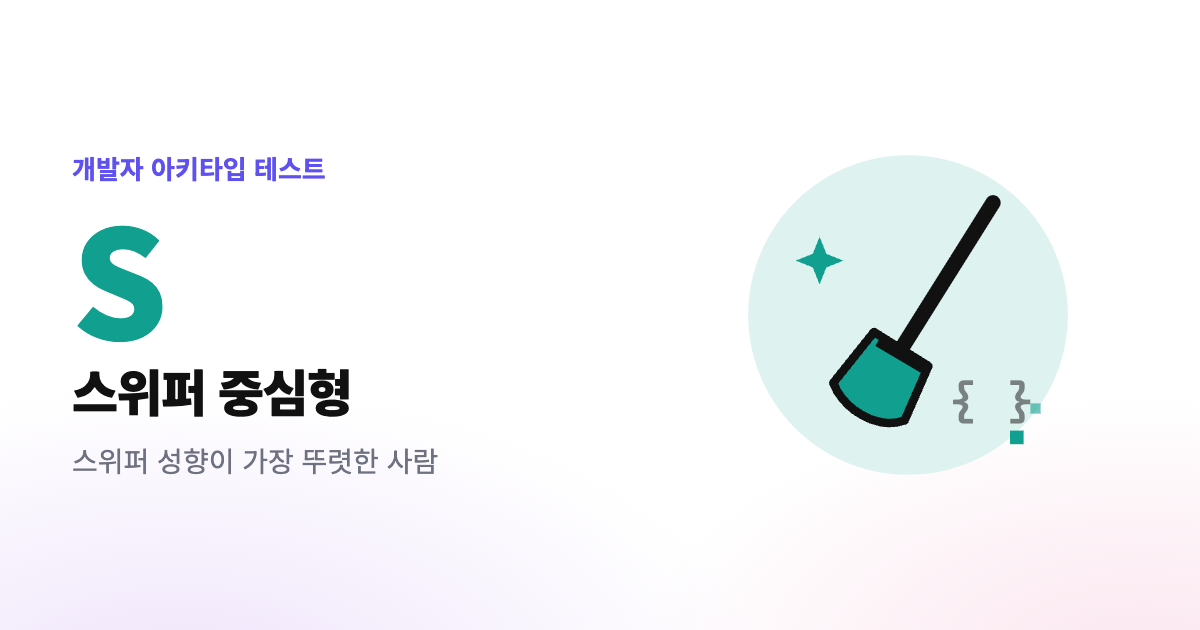
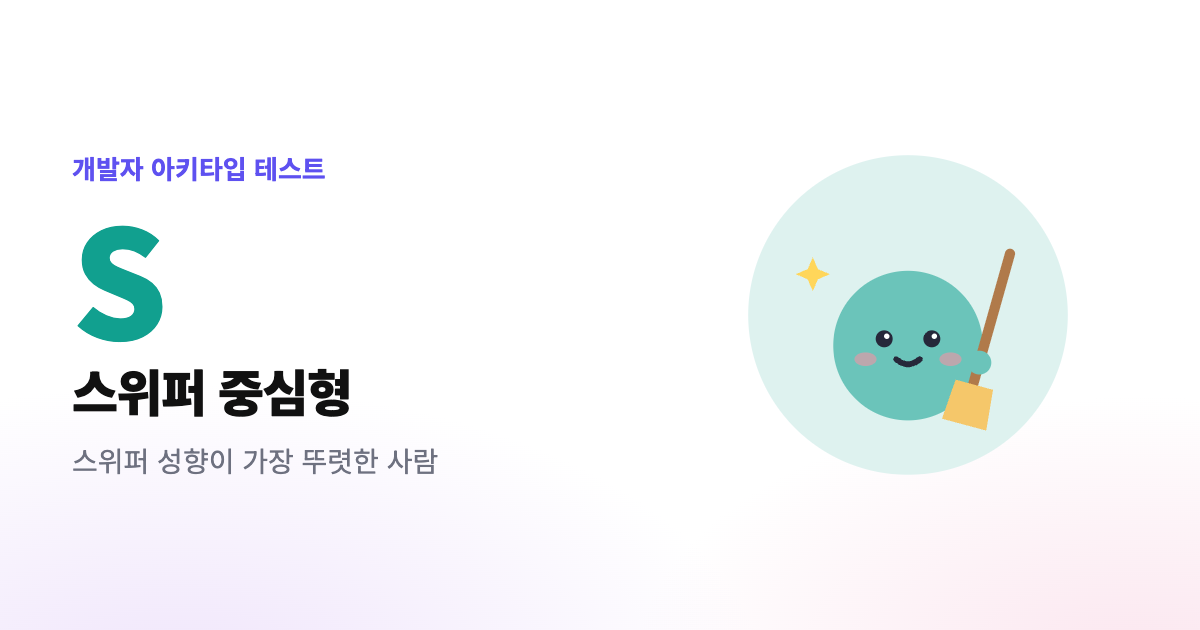
일러스트를 동그란 캐릭터로 교체

Changed region(s): [[0.6475, 0.3016, 0.8633, 0.7238]]

diff --git a/index.html b/index.html
@@ -491,40 +491,36 @@ const COMBOS = {
     '성장 기회를 놓치지 않으면서도 그 성장이 시스템을 무너뜨리지 않게 지킵니다. 사용자가 빠르게 늘어나는 자리 잡은 제품에서 꼭 필요한 조합입니다.']
 };
 
-// 역할별 일러스트입니다. --c 는 역할 색입니다
+// 역할별 일러스트입니다. 동그란 캐릭터 하나에 소품 하나를 얹습니다
+// --c 는 역할 색입니다. 몸은 흰색을 섞어 파스텔로 만듭니다
+const FACE = `<circle cx="100" cy="118" r="44" fill="color-mix(in srgb, var(--c) 62%, #fff)"/>
+    <circle cx="86" cy="114" r="5" fill="#26283a"/><circle cx="114" cy="114" r="5" fill="#26283a"/>
+    <circle cx="87.5" cy="112.5" r="1.6" fill="#fff"/><circle cx="115.5" cy="112.5" r="1.6" fill="#fff"/>
+    <path d="M93 126q7 6 14 0" fill="none" stroke="#26283a" stroke-width="3.5" stroke-linecap="round"/>
+    <ellipse cx="75" cy="126" rx="6.5" ry="4" fill="#ff8fa3" opacity=".55"/>
+    <ellipse cx="125" cy="126" rx="6.5" ry="4" fill="#ff8fa3" opacity=".55"/>`;
 const ART = {
-  P: `<path d="M100 26v14M48 46l10 10M152 46l-10 10M30 94h14M156 94h14" stroke="var(--ink)" stroke-width="5" stroke-linecap="round"/>
-    <rect x="138" y="120" width="28" height="28" rx="4" fill="var(--c)" opacity=".45" transform="rotate(12 152 134)"/>
-    <rect x="30" y="124" width="24" height="24" rx="4" fill="var(--c)" opacity=".3" transform="rotate(-10 42 136)"/>
-    <path d="M100 52a40 40 0 0 0-24 72c6 5 8 10 8 16h32c0-6 2-11 8-16a40 40 0 0 0-24-72z" fill="var(--c)" stroke="var(--ink)" stroke-width="5" stroke-linejoin="round"/>
-    <path d="M92 122v-16a8 8 0 0 1 16 0v16" fill="none" stroke="var(--surface)" stroke-width="5" stroke-linecap="round" stroke-linejoin="round"/>
-    <rect x="82" y="146" width="36" height="10" rx="4" fill="var(--ink)"/><rect x="88" y="160" width="24" height="9" rx="4" fill="var(--ink)"/>`,
-  B: `<path d="M38 172h36M126 172h36" stroke="var(--ink)" stroke-width="5" stroke-linecap="round" opacity=".3"/>
-    <path d="M88 136q12 46 24 0z" fill="var(--c)" opacity=".5"/>
-    <path d="M100 28c24 18 32 52 26 96H74c-6-44 2-78 26-96z" fill="var(--surface)" stroke="var(--ink)" stroke-width="5" stroke-linejoin="round"/>
-    <path d="M100 28c10 7 17 17 21 28H79c4-11 11-21 21-28z" fill="var(--c)" stroke="var(--ink)" stroke-width="5" stroke-linejoin="round"/>
-    <circle cx="100" cy="82" r="12" fill="var(--c)" stroke="var(--ink)" stroke-width="5"/>
-    <path d="M75 100l-20 30h22zM125 100l20 30h-22z" fill="var(--c)" stroke="var(--ink)" stroke-width="5" stroke-linejoin="round"/>
-    <rect x="85" y="124" width="30" height="11" rx="2" fill="var(--ink)"/>`,
-  S: `<path d="M48 54l4 10 10 4-10 4-4 10-4-10-10-4 10-4z" fill="var(--c)"/>
-    <path d="M150 34L96 120" stroke="var(--ink)" stroke-width="9" stroke-linecap="round"/>
-    <path d="M80 110l32 20-14 32c-15 6-36-6-42-22z" fill="var(--c)" stroke="var(--ink)" stroke-width="5" stroke-linejoin="round"/>
-    <path d="M82 116l27 16" stroke="var(--ink)" stroke-width="5"/>
-    <text x="124" y="160" font-family="IBM Plex Mono, ui-monospace, monospace" font-size="28" font-weight="600" fill="var(--ink)" opacity=".5">{ }</text>
-    <rect x="160" y="168" width="8" height="8" fill="var(--c)"/><rect x="172" y="152" width="6" height="6" fill="var(--c)" opacity=".6"/>`,
-  G: `<path d="M28 168h144" stroke="var(--ink)" stroke-width="5" stroke-linecap="round" opacity=".3"/>
-    <rect x="40" y="128" width="20" height="40" rx="3" fill="var(--c)" opacity=".3"/>
-    <rect x="66" y="106" width="20" height="62" rx="3" fill="var(--c)" opacity=".5"/>
-    <path d="M34 82l22-18 16 10 24-24" fill="none" stroke="var(--ink)" stroke-width="5" stroke-linecap="round" stroke-linejoin="round"/>
-    <path d="M84 50h12v12" fill="none" stroke="var(--ink)" stroke-width="5" stroke-linecap="round" stroke-linejoin="round"/>
-    <path d="M130 134V72" stroke="var(--ink)" stroke-width="5" stroke-linecap="round"/>
-    <path d="M130 104c-22 2-30-12-30-24 18 0 30 8 30 24z" fill="var(--surface)" stroke="var(--ink)" stroke-width="5" stroke-linejoin="round"/>
-    <path d="M130 88c20 0 30-14 30-28-18 0-30 10-30 28z" fill="var(--c)" stroke="var(--ink)" stroke-width="5" stroke-linejoin="round"/>
-    <path d="M102 134h56l-8 34h-40z" fill="var(--c)" stroke="var(--ink)" stroke-width="5" stroke-linejoin="round"/>`,
-  M: `<circle cx="146" cy="146" r="26" fill="none" stroke="var(--c)" stroke-width="13" stroke-dasharray="10 7" opacity=".55"/>
-    <circle cx="146" cy="146" r="17" fill="var(--c)" opacity=".55"/>
-    <path d="M94 34l52 19v37c0 35-23 58-52 70-29-12-52-35-52-70V53z" fill="var(--c)" stroke="var(--ink)" stroke-width="5" stroke-linejoin="round"/>
-    <path d="M74 96l14 14 28-30" fill="none" stroke="var(--surface)" stroke-width="9" stroke-linecap="round" stroke-linejoin="round"/>`
+  P: `${FACE}
+    <path d="M100 26v8M76 36l5 6M124 36l-5 6" stroke="#f5b82e" stroke-width="4" stroke-linecap="round"/>
+    <circle cx="100" cy="54" r="13" fill="#ffd65a"/>
+    <rect x="94" y="65" width="12" height="7" rx="2" fill="#8a8ca0"/>`,
+  B: `${FACE}
+    <path d="M64 98a36 32 0 0 1 72 0z" fill="#ffc93c"/>
+    <rect x="96" y="66" width="8" height="32" rx="4" fill="#f5a623"/>
+    <rect x="56" y="94" width="88" height="9" rx="4.5" fill="#f5a623"/>`,
+  S: `${FACE}
+    <path d="M44 66l3 7 7 3-7 3-3 7-3-7-7-3 7-3z" fill="#ffd65a"/>
+    <path d="M160 64l-22 78" stroke="#b07a4a" stroke-width="6" stroke-linecap="round"/>
+    <path d="M128 138l22 6-4 24-26-7z" fill="#f5c76a"/>
+    <circle cx="142" cy="128" r="7" fill="color-mix(in srgb, var(--c) 62%, #fff)"/>`,
+  G: `${FACE}
+    <path d="M100 76V56" stroke="#4cb35e" stroke-width="5" stroke-linecap="round"/>
+    <path d="M100 62c-4-12-14-16-22-14 2 10 10 16 22 14z" fill="#6fd17f"/>
+    <path d="M100 58c4-14 16-18 26-15-2 12-12 18-26 15z" fill="#6fd17f"/>`,
+  M: `${FACE}
+    <path d="M140 118l18 7v10c0 11-8 18-18 22-10-4-18-11-18-22v-10z" fill="#fff" stroke="var(--c)" stroke-width="4" stroke-linejoin="round"/>
+    <path d="M133 136l5 5 9-10" fill="none" stroke="var(--c)" stroke-width="4" stroke-linecap="round" stroke-linejoin="round"/>
+    <path d="M100 74c-3-6 4-10 7-5" fill="none" stroke="color-mix(in srgb, var(--c) 62%, #fff)" stroke-width="4" stroke-linecap="round"/>`
 };
 function art(t) {
   return `<svg viewBox="0 0 200 200" role="img" aria-label="${TYPES[t].ko} 일러스트" style="--c:var(${TYPES[t].c})">
